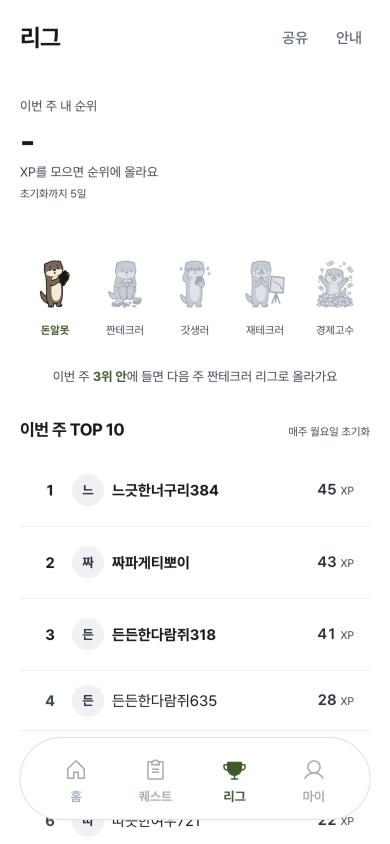
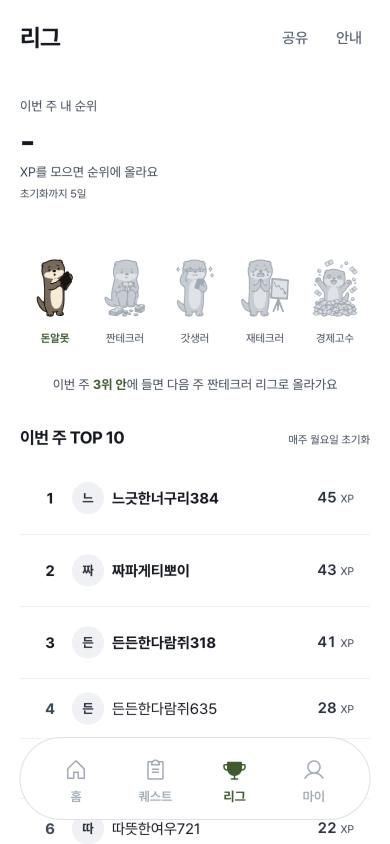
리그 등급 그림 56px에서 68px로(390px에서 다섯 칸 폭 70px에 맞춤)

diff --git a/src/index.css b/src/index.css
@@ -1133,7 +1133,7 @@ button.course-home-rail-card:active { background: var(--color-surface); }
 .league-tier-road::before { right: 10%; background: var(--color-surface); }
 .league-tier-road::after { width: calc(80% * var(--road-progress)); background: var(--color-progress); }
 .league-tier-step { position: relative; z-index: 1; display: flex; min-width: 0; flex-direction: column; align-items: center; gap: var(--space-1); }
-.league-tier-node { display: flex; width: 60px; height: 60px; align-items: center; justify-content: center; }
+.league-tier-node { display: flex; width: 68px; height: 68px; align-items: center; justify-content: center; }
 .league-tier-step[data-state='done'] .league-tier-node { color: var(--color-ink-2); }
 .league-tier-step[data-state='current'] .league-tier-node { color: var(--color-accent-foreground); }
 .league-tier-step[data-state='future'] .league-tier-node .stage-glyph { opacity: 1; filter: none; }

diff --git a/src/pages/LeagueScreen.tsx b/src/pages/LeagueScreen.tsx
@@ -80,7 +80,7 @@ const LeagueScreen = () => {
             const state = s.id < stage.id ? 'done' : s.id === stage.id ? 'current' : 'future';
             return (
               <li key={s.id} className="league-tier-step" data-state={state} aria-current={state === 'current' ? 'step' : undefined}>
-                <span className="league-tier-node"><StageGlyph id={s.id} size={56} locked={state === 'future'} /></span>
+                <span className="league-tier-node"><StageGlyph id={s.id} size={68} locked={state === 'future'} /></span>
                 <span className="league-tier-name">{s.name}</span>
               </li>
             );

diff --git a/DESIGN.md b/DESIGN.md
@@ -235,7 +235,7 @@
 ### 리그 (`/league`)
 
 - 이번 주 내 순위: 34px 순위, `N명 중 · XP`, 초기화까지 남은 일.
-- 등급 단계: 테두리·트랙 없이 56px 등급 그림 다섯 개. 현재 등급은 이름 색·굵기로 강조, 아직 못 간 등급은 회색 잠김본. 아래 한 줄로 승급 조건("이번 주 3위 안에 들면 다음 주 ○○ 리그로 올라가요", 지금 3위 안이면 "지금 순위를 지키면…").
+- 등급 단계: 테두리·트랙 없이 68px 등급 그림 다섯 개. 현재 등급은 이름 색·굵기로 강조, 아직 못 간 등급은 회색 잠김본. 아래 한 줄로 승급 조건("이번 주 3위 안에 들면 다음 주 ○○ 리그로 올라가요", 지금 3위 안이면 "지금 순위를 지키면…").
 - TOP 10: 순위 목록 하나만 둔다(시상대는 같은 1~3위를 반복해서 뺐다). 1~3위는 보라 굵은 숫자, 내 행은 옅은 보라 면.
 
 ### 마이 (`/my`)
